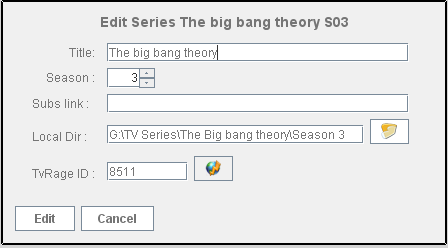
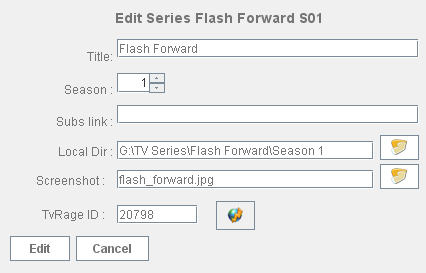
Updated add/edit series  panel help (closes issue 19)

Changed region(s): [[0.0, 0.0, 1.0, 1.0]]

diff --git a/src/help/html/series_administration.html b/src/help/html/series_administration.html
@@ -17,6 +17,8 @@
             <li>Season is the series season (must be an integer) </li>
             <li>Subs is a link to a web page with the series subs (eg http://www.tvsubtitles.net/tvshow-54-5.html) </li>
             <li>Local Dir is the path to the directory that contains the series episodes</li>
+            <li>Screenshot is the screenshot that will be displayed below the series table when this series is selected.<br />
+            The screenshot file is saved in /images directory</li>
             <li>TvRage ID is the Id of the series in tvrage.com database.This can be found by clicking on the button
             next to TvRage ID textfield. Check [<span class="link">Internet Update</span>] for more info.</li>
             </ul>
